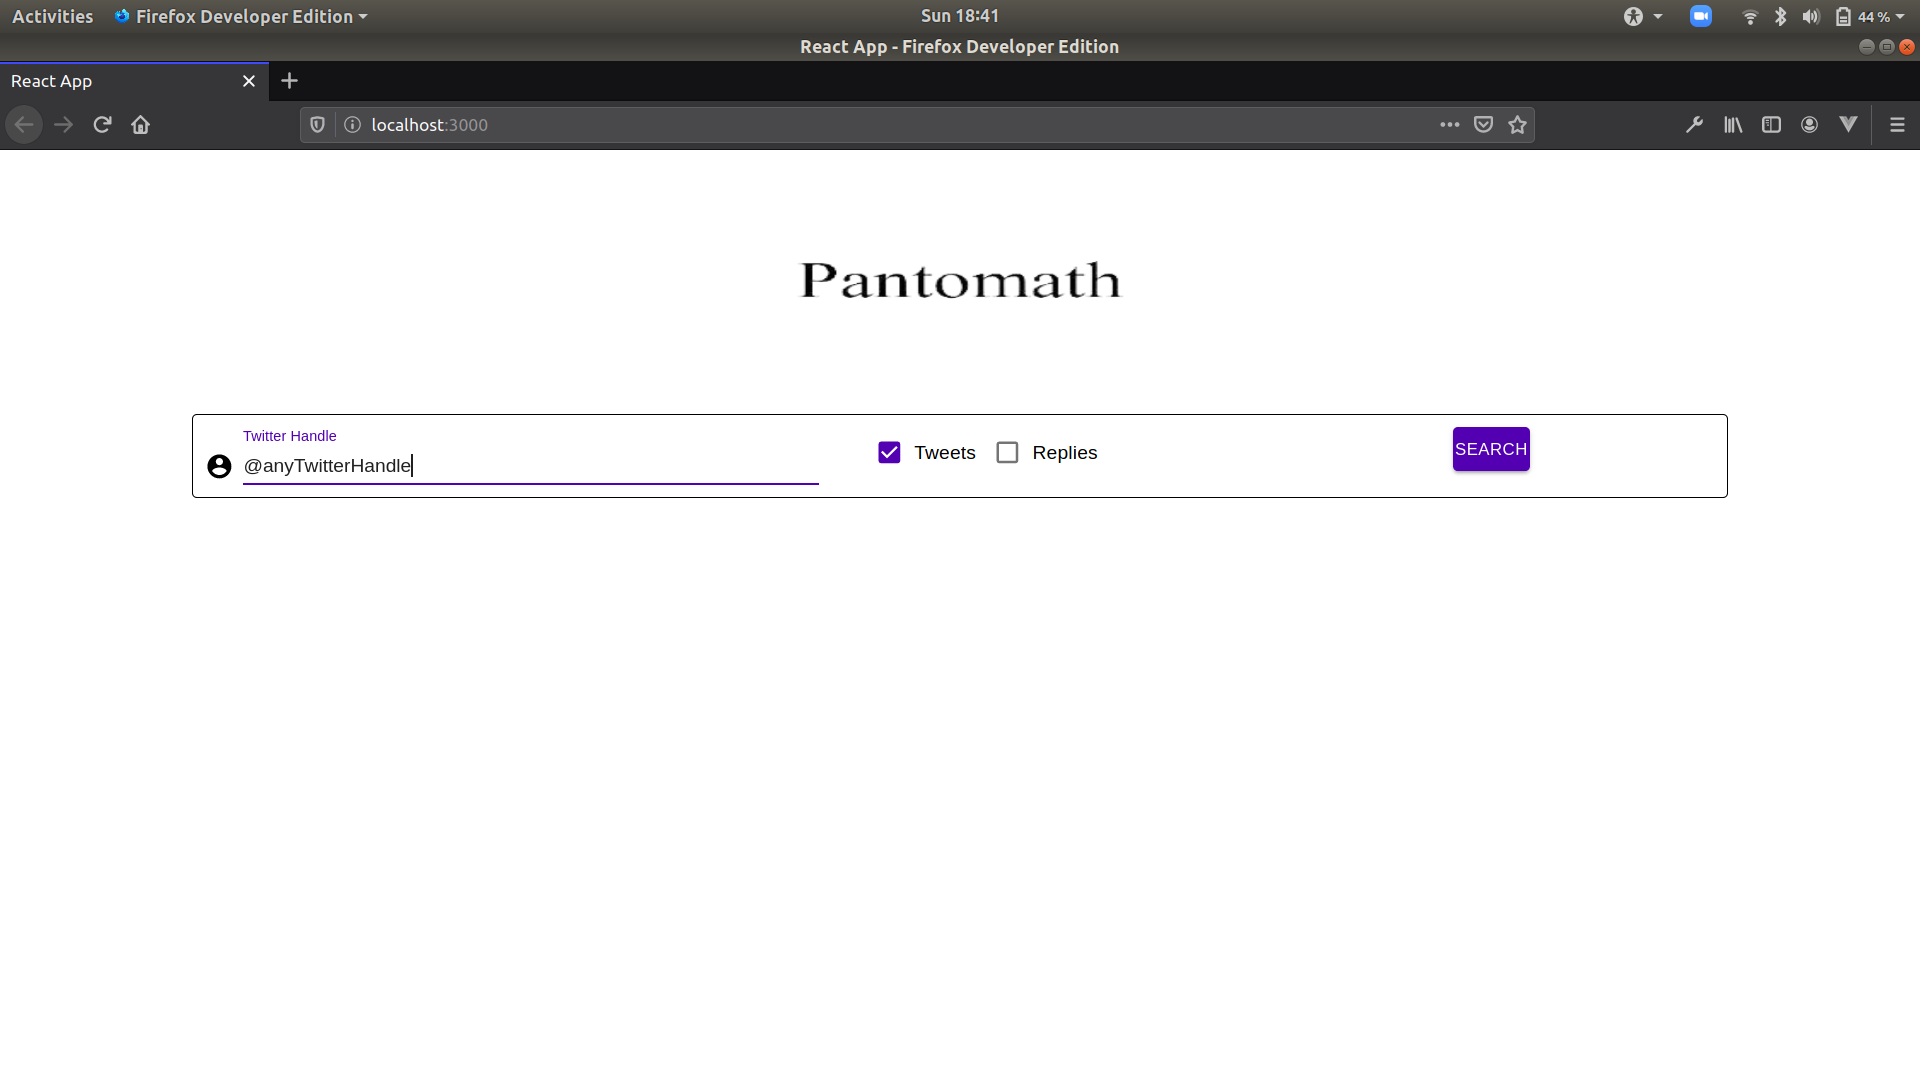
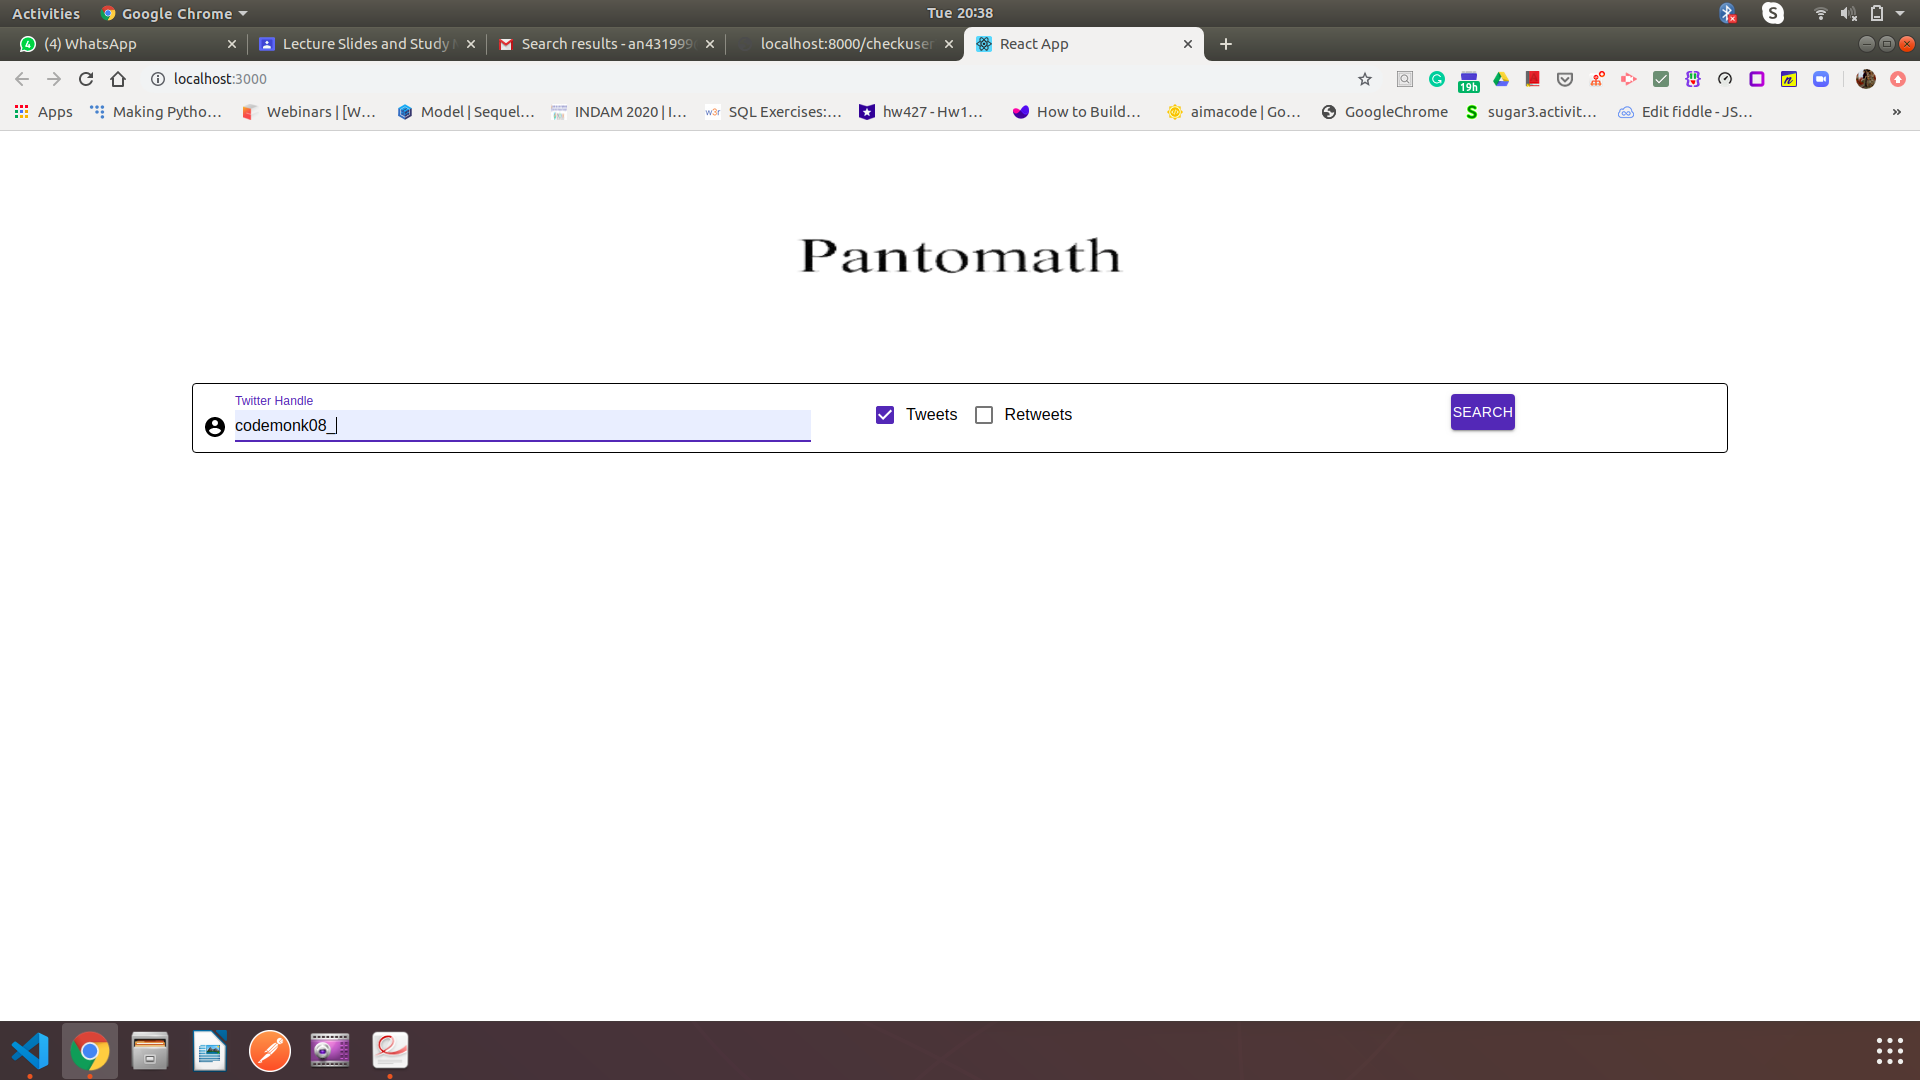
finalized code

diff --git a/client/src/Components/TwitterForm/TwitterForm.js b/client/src/Components/TwitterForm/TwitterForm.js
@@ -26,7 +26,7 @@ const TwitterForm = ({ submit_func }) => {
   const classes = useStyles();
   const [state, setState] = React.useState({
     tweets: true,
-    replies: false
+    retweets: false
   });
 
   console.log(state);
@@ -39,7 +39,7 @@ const TwitterForm = ({ submit_func }) => {
     var data = {};
     data["username"] = e.target[0].value;
     data["tweets"] = state.tweets;
-    data["replies"] = state.replies;
+    data["retweets"] = state.retweets;
     submit_func(data);
   }
   return (
@@ -70,13 +70,13 @@ const TwitterForm = ({ submit_func }) => {
           <FormControlLabel
             control={
               <Checkbox
-                checked={state.replies}
+                checked={state.retweets}
                 onChange={handleCheckChange}
-                name="replies"
+                name="retweets"
                 color="primary"
               />
             }
-            label="Replies"
+            label="Retweets"
           />
         </div>
         <Button

diff --git a/client/src/Components/Result/Result.js b/client/src/Components/Result/Result.js
@@ -31,13 +31,15 @@ const Result = ({ endpoint, data }) => {
           data.username +
           "&tweets=" +
           data.tweets +
-          "&replies=" +
-          data.replies;
+          "&retweets=" +
+          data.retweets;
         console.log(url);
         try {
           const val = await Axios.get(url);
+          console.log(val.data)
           setFetchedData(val["data"]);
         } catch (err) {
+          console.log(err)
           alert("SORRY!A problem occurred !");
         }
       } else console.log("");

diff --git a/client/src/App.js b/client/src/App.js
@@ -10,7 +10,7 @@ const App = () => {
   const [formData, setFormData] = useState({
     username: "",
     tweets: false,
-    replies: false
+    retweets: false
   });
 
   function getTwitterFromData(data) {

diff --git a/server.py b/server.py
@@ -34,94 +34,120 @@ def mainpage():
 @app.route('/checkuser')
 def checkuser():
     username = request.args.get('username')
-    getReplies = request.args.get('replies')
+    getRetweets = request.args.get('retweets')
     getTweets = request.args.get('tweets')
-    print(username,getReplies,getTweets)
+    print(username,getRetweets,getTweets)
     try:
-        if(getTweets=="true" and getReplies=="false"):
-   
-            tweets_arr_fetched=twitter_fetcher.get_tweets_arr(username)
-            
-            if(len(tweets_arr_fetched)!=0):
+        # print("test 1")
+        tweets_arr_fetched=twitter_fetcher.get_timeline(username,getretweets=getRetweets=="true",gettweets=getTweets=="true")
+        # print("test 2")
+        if(len(tweets_arr_fetched)!=0):
                 X_test_vec_tweets = tf_idf.transform(tweets_arr_fetched)
                 
                 predictions= hate_speech_predictor.predict(X_test_vec_tweets)
-                print(predictions)
+                # print(predictions)
                 person = personality(tweets_arr_fetched)
-            else:
-                predictions=[]
-                person = "Insufficient tweets"
-            tweet_list=[]
-            for i in range(0,len(tweets_arr_fetched)):
-                tweets = {}
-                tweets["text"]=tweets_arr_fetched[i]
-                tweets["isHateSpeech"]=str(predictions[i])
-                tweet_list.append(tweets)
-            res={
-                "tweets":tweet_list,
-                "hatespeechCount":str(np.sum(np.array(predictions)==1)),
-                "personality":person
-            }
-            print(res)
-        elif(getReplies=="true" and getTweets=="false"):
-            
-            reply_arr_fetch=[]
-            tweets_data = twitter_fetcher.get_timeline(username)
-            
-            for tweet in tweets_data:
-                for reply in tweet["replies"]:
-                    reply_arr_fetch.append(reply["text"])
-            if(len(reply_arr_fetch)!=0):
-                X_test_vec_reply = tf_idf.transform(reply_arr_fetch)
-                predictions=hate_speech_predictor.predict(X_test_vec_reply)
-                print(predictions)
-                person = personality(reply_arr_fetch)
-            else:
-                predictions=[]
-                person = "Insufficient tweets"
-            reply_list=[]
-            for i in range(0,len(reply_arr_fetch)):
-                tweets = {}
-                tweets["text"]=reply_arr_fetch[i]
-                tweets["isHateSpeech"]=str(predictions[i])
-                tweet_list.append(tweets)
-            res={
-                "replies":reply_list,
-                "hatespeechCount":str(np.sum(np.array(predictions)==1)),
-                "personality":person
-            }
         else:
-            tweets_arr_fetch=[]
-            tweets_data = twitter_fetcher.get_timeline(username)
-            c=0
-            for tweet in tweets_data:
-                c+=1
-                r=0
-                tweets_arr_fetch.append(tweet["text"])
-                for reply in tweet["replies"]:
-                    r+=1
-                    tweets_arr_fetch.append(reply["text"])
-                print(c,r)
-            if(len(tweets_arr_fetch)!=0):
-                X_test_vec_tweets = tf_idf.transform(tweets_arr_fetch)
-                
-                predictions= hate_speech_predictor.predict(X_test_vec_tweets)
-                print(predictions)
-                person = personality(tweets_arr_fetch)
-            else:
                 predictions=[]
                 person = "Insufficient tweets"
-            tweet_list=[]
-            for i in range(0,len(tweets_arr_fetch)):
-                tweets = {}
-                tweets["text"]=tweets_arr_fetch[i]
-                tweets["isHateSpeech"]=str(predictions[i])
-                tweet_list.append(tweets)
-            res={
+        tweet_list=[]
+        for i in range(0,len(tweets_arr_fetched)):
+            tweets = {}
+            tweets["text"]=tweets_arr_fetched[i]
+            tweets["isHateSpeech"]=str(predictions[i])
+            tweet_list.append(tweets)
+        res={
                 "tweets":tweet_list,
                 "hatespeechCount":str(np.sum(np.array(predictions)==1)),
-                "personality": person
-            }
+                "personality":person
+        }
+        # print(res)
+        # if(getTweets=="true" and getRetweets=="false"):
+        #     print("case:- only tweets")
+        #     tweets_arr_fetched=twitter_fetcher.get_tweets_arr(username)
+        #     tweets_arr_fetched=twitter_fetcher.get_timeline(username,getretweets=)
+        #     if(len(tweets_arr_fetched)!=0):
+        #         X_test_vec_tweets = tf_idf.transform(tweets_arr_fetched)
+                
+        #         predictions= hate_speech_predictor.predict(X_test_vec_tweets)
+        #         print(predictions)
+        #         person = personality(tweets_arr_fetched)
+        #     else:
+        #         predictions=[]
+        #         person = "Insufficient tweets"
+        #     tweet_list=[]
+        #     for i in range(0,len(tweets_arr_fetched)):
+        #         tweets = {}
+        #         tweets["text"]=tweets_arr_fetched[i]
+        #         tweets["isHateSpeech"]=str(predictions[i])
+        #         tweet_list.append(tweets)
+        #     res={
+        #         "tweets":tweet_list,
+        #         "hatespeechCount":str(np.sum(np.array(predictions)==1)),
+        #         "personality":person
+        #     }
+        #     print(res)
+        # elif(getRetweets=="true" and getTweets=="false"):
+        #     print("case:- only replies")
+        #     reply_arr_fetch=[]
+        #     print("test 1")
+        #     tweets_data = twitter_fetcher.get_timeline(username,getretweets=True,gettweets=False)
+        #     print("tweet_data",tweets_data)
+        #     for tweet in tweets_data:
+        #         for reply in tweet["replies"]:
+        #             reply_arr_fetch.append(reply["text"])
+        #     print("reply_arr_fetch",reply_arr_fetch)
+        #     if(len(reply_arr_fetch)!=0):
+        #         X_test_vec_reply = tf_idf.transform(reply_arr_fetch)
+        #         predictions=hate_speech_predictor.predict(X_test_vec_reply)
+        #         print(predictions)
+        #         person = personality(reply_arr_fetch)
+        #     else:
+        #         predictions=[]
+        #         person = "Insufficient tweets"
+        #     reply_list=[]
+        #     for i in range(0,len(reply_arr_fetch)):
+        #         tweets = {}
+        #         tweets["text"]=reply_arr_fetch[i]
+        #         tweets["isHateSpeech"]=str(predictions[i])
+        #         tweet_list.append(tweets)
+        #     res={
+        #         "tweets":reply_list,
+        #         "hatespeechCount":str(np.sum(np.array(predictions)==1)),
+        #         "personality":person
+        #     }
+        # else:
+        #     tweets_arr_fetch=[]
+        #     tweets_data = twitter_fetcher.get_timeline(username)
+        #     c=0
+        #     for tweet in tweets_data:
+        #         c+=1
+        #         r=0
+        #         tweets_arr_fetch.append(tweet["text"])
+        #         for reply in tweet["replies"]:
+        #             r+=1
+        #             tweets_arr_fetch.append(reply["text"])
+        #         print(c,r)
+        #     if(len(tweets_arr_fetch)!=0):
+        #         X_test_vec_tweets = tf_idf.transform(tweets_arr_fetch)
+                
+        #         predictions= hate_speech_predictor.predict(X_test_vec_tweets)
+        #         print(predictions)
+        #         person = personality(tweets_arr_fetch)
+        #     else:
+        #         predictions=[]
+        #         person = "Insufficient tweets"
+        #     tweet_list=[]
+        #     for i in range(0,len(tweets_arr_fetch)):
+        #         tweets = {}
+        #         tweets["text"]=tweets_arr_fetch[i]
+        #         tweets["isHateSpeech"]=str(predictions[i])
+        #         tweet_list.append(tweets)
+        #     res={
+        #         "tweets":tweet_list,
+        #         "hatespeechCount":str(np.sum(np.array(predictions)==1)),
+        #         "personality": person
+        #     }
     except tweepy.error.TweepError:
         return {
             "tweets":[],

diff --git a/src/tweetApi.py b/src/tweetApi.py
@@ -13,105 +13,34 @@ class TwitterFetcher:
                 # self.access_key = '944440837739487232-KTdrvr4vARk7RTKvJkRPUF8I4VOvGIr'
                 # self.access_secret = 'bfHE0jC5h3B7W3H18TxV7XsofG1xuB6zeINo2DxmZ8K1W'
 
-        def get_tweets(self,username):
-                auth = tweepy.OAuthHandler(self.consumer_key, self.consumer_secret)
-
-                # Access to user's access key and access secret
-                auth.set_access_token(self.access_key, self.access_secret)
-
-                # Calling api
-                api = tweepy.API(auth,wait_on_rate_limit=True,wait_on_rate_limit_notify=True)
-
-                # 200 tweets to be extracted
-                number_of_tweets=200
-                tweets = api.user_timeline(screen_name=username,count=number_of_tweets,tweet_mode="extended")
-                # Empty Array
-                tmp=[]
-
-                # create array of tweet information: username,
-                # tweet id, date/time, text
-
-               
-
-                # tweets_for_csv = [(tweet.text,tweet.user.screen_name,tweet.user.profile_image_url,tweet.id_str,tweet.created_at) for tweet in tweets] # CSV file created
-                for tweet in tweets:
-
-                        if (hasattr(tweet, 'retweeted_status')):
-                                text = tweet.retweeted_status.full_text
-                                tmp.append(text)
-                        else:
-                                text = tweet.full_text
-                                tmp.append(text)
-
-
-                print(tmp)
-
-                return tmp
-
-        def get_timeline(self,username):
+        def get_timeline(self,username,getretweets,gettweets):
                 auth = tweepy.OAuthHandler(self.consumer_key,self. consumer_secret)
-
                 # Access to user's access key and access secret
                 auth.set_access_token(self.access_key,self.access_secret)
-
                 # Calling api
                 api = tweepy.API(auth,wait_on_rate_limit=True,wait_on_rate_limit_notify=True,compression=True)
-
                 # 200 tweets to be extracted
                 number_of_tweets=200
-
+                print("test 11")
                 tweets = api.user_timeline(screen_name = username,count=number_of_tweets, tweet_mode="extended")
-
+                print("test 12")
                 tweets_list = []
-
+                c=0
+                c1=0
+                c2=0
                 for tweet in tweets:
-                        if(hasattr(tweet, 'retweeted_status')):
-                                text = tweet.retweeted_status.full_text
-                        else:
-                                text = tweet.full_text
-                        replies = self.get_replies(username,tweet.id)
-
-                        tweet_json={
-                                "text":text,
-                                "id_str":tweet.id_str,
-                                "in_reply_to_user_id_str":tweet.in_reply_to_user_id_str,
-                                "time":tweet.created_at,
-                                "replies":replies
-                        }
-                        tweets_list.append(tweet_json)
-                return tweets_list
-
-        def get_replies(self,username,tweetId):
-
-
-                auth = tweepy.OAuthHandler(self.consumer_key, self.consumer_secret)
-
-                # Access to user's access key and access secret
-                auth.set_access_token(self.access_key, self.access_secret)
-
-                # Calling api
-                api = tweepy.API(auth)
-                searched_tweets = api.search(q='to:${username}',since_id=tweetId,rpp=100,count=1000, tweet_mode="extended")
-                replies=[]
-                for tweet in searched_tweets:
-                        if(tweet.in_reply_to_user_id_str==tweetId):
+                        # print(tweet._json["lang"])
+                        if(tweet._json["lang"]=="en"):
+                                print(c,hasattr(tweet, 'retweeted_status'))
+                                c+=1
                                 if(hasattr(tweet, 'retweeted_status')):
-                                        text = tweet.retweeted_status.full_text
-                                else:
+                                        if(getretweets):
+                                                c1+=1
+                                                text = tweet.retweeted_status.full_text
+                                                tweets_list.append(text)
+                                elif(gettweets):
+                                        c2+=1
                                         text = tweet.full_text
-                                tweet_json={
-                                "text":text,
-                                "id_str":tweet.id_str,
-                                "in_reply_to_user_id_str":tweet.in_reply_to_user_id_str,
-                                "time":tweet.created_at}
-                                replies.append(tweet_json)
-
-                return replies
-
-        def get_tweets_arr(self,username):
-          tweets_arr=[]
-          data=self.get_tweets(username)
-          for d in data:
-                  tweets_arr.append(d)
-          return tweets_arr
-
+                                        tweets_list.append(text)  
+                # print("list recieved",len(tweets_list),"retweets=",c1,"tweets=",c2)
+                return tweets_list
